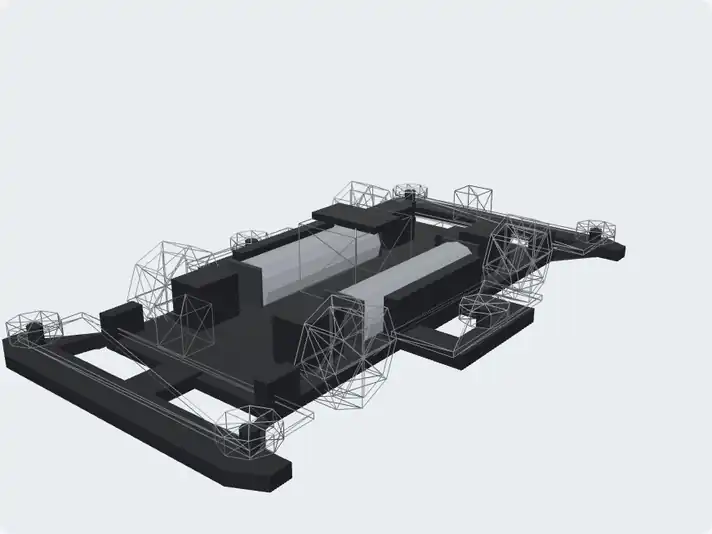
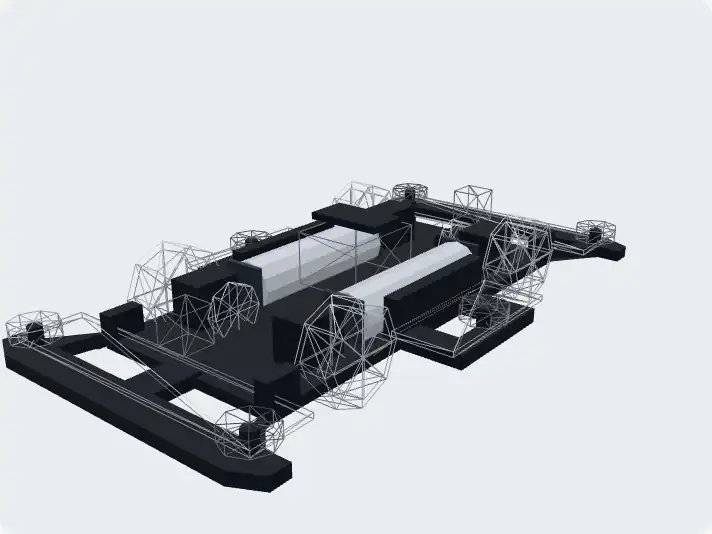
✨ Light the car from a studio, so metal and paint catch the light
The pane was lit by an ambient light and two lamps, with no environment
and no tone mapping. With nothing to reflect, an aluminium roller, a
motor can and a plated wheel were all the same dull grey, and every
material read as the same matte plastic.

The car now sits in a studio of glowing panels, shared/scene/studio.ts,
prefiltered into scene.environment once per mount at 128 px: a wide
overhead softbox, two low flank panels, a key box and a kicker. It was
chosen over three's RoomEnvironment after a side-by-side on a red, a
smoked clear and a white kit. The room rolled a livelier highlight
across a hood, but it washed the grey chassis to white and pushed red
toward pink. The studio keeps the box-art colours, and its panels were
then made large, because a faceted body only rolls a highlight across
several faces when the source is wide.

Tone mapping is Khronos PBR Neutral, which leaves base colours where
they were matched to box art. The ambient and fill lights are gone, one
key lamp shades what the panels light alike, and the environment runs
at 0.75 so a white shell keeps its shape. Metal is fully metallic, and
the shell is a clearcoated physical material, pulled forward from phase
4 because the comparison was judged with it. The finishes are one
SURFACE table.

The 3D chunk went 150.5 -> 151.4 KB gz, measured against HEAD. It is
still only prefetched, and no route loads Zod. Both posters were
recaptured at the home view.
[…]

diff --git a/app/components/build/Scene.client.vue b/app/components/build/Scene.client.vue
@@ -14,12 +14,13 @@
  * Nothing here runs during prerender.
  */
 import {
-  AmbientLight, BoxGeometry, CylinderGeometry, DirectionalLight, Group, Mesh, Object3D,
-  MeshStandardMaterial, PerspectiveCamera, Raycaster, Scene, SphereGeometry,
-  Vector2, Vector3, WebGLRenderer
+  BoxGeometry, CylinderGeometry, DirectionalLight, Group, Mesh, Object3D,
+  MeshPhysicalMaterial, MeshStandardMaterial, NeutralToneMapping, PerspectiveCamera,
+  Raycaster, Scene, SphereGeometry, Vector2, Vector3, WebGLRenderer
 } from 'three'
 import type { BufferGeometry } from 'three'
 import { OrbitControls } from 'three/addons/controls/OrbitControls.js'
+import { studioEnvironment } from '#shared/scene/studio'
 import { layoutFor, socketsFor } from '#shared/scene/sockets'
 import type { Fit, ProxyKind, SceneSocket } from '#shared/scene/sockets'
 import { DEFAULT_SILHOUETTE } from '#shared/scene/bodies'
@@ -335,6 +336,16 @@ const HIT: Record<Exclude<Solid, Hidden>, (shape: Shape) => BufferGeometry> = {
 const EMPTY_COLOUR = 0xb8bcc2
 /** What a material is besides its colour: the four finishes a proxy can have. */
 type Finish = 'shell' | 'rubber' | 'metal' | 'plastic'
+/**
+ * How each finish meets the studio's light. Metal is fully metallic: all its
+ * colour comes from what it reflects, which the studio is there to give it.
+ */
+const SURFACE: Record<Finish, { roughness: number; metalness: number }> = {
+  shell: { roughness: 0.5, metalness: 0 },
+  rubber: { roughness: 0.9, metalness: 0 },
+  metal: { roughness: 0.3, metalness: 1 },
+  plastic: { roughness: 0.5, metalness: 0 }
+}
 const FINISH: Record<ProxyKind, Finish> = {
   body: 'shell',
   motor: 'metal',
@@ -507,8 +518,11 @@ onMounted(() => {
    * a transparent material draws identically. The only other transparent
    * thing is a kit's clear chassis, and the shell's `renderOrder` draws it
    * after that from every angle, not only the ones where it is nearer.
+   *
+   * Clearcoated, so a painted shell reads as paint under a gloss layer: the
+   * studio's panels reflect in the coat while the colour stays in the base.
    */
-  const shell = new MeshStandardMaterial({ roughness: 0.55, metalness: 0.1, transparent: true })
+  const shell = new MeshPhysicalMaterial({ roughness: 0.4, metalness: 0, clearcoat: 1, clearcoatRoughness: 0.08, transparent: true })
   /** The shell's opacity seated, set by `populate`; `tickBody` fades from it as the shell lifts. */
   let seatedOpacity = 1
   function styleShell(highlight: Highlight, tint: number) {
@@ -527,7 +541,7 @@ onMounted(() => {
     const key = `chassis:${colour}:${clear}`
     let found = materials.get(key)
     if (!found) {
-      found = new MeshStandardMaterial({ color: colour, roughness: 0.75, transparent: clear, opacity: clear ? CLEAR_OPACITY : 1 })
+      found = new MeshStandardMaterial({ color: colour, roughness: 0.6, transparent: clear, opacity: clear ? CLEAR_OPACITY : 1 })
       materials.set(key, found)
     }
     return found
@@ -551,8 +565,7 @@ onMounted(() => {
     if (!found) {
       found = new MeshStandardMaterial({
         color: colour,
-        roughness: finish === 'rubber' ? 0.9 : 0.55,
-        metalness: finish === 'metal' ? 0.5 : 0.1,
+        ...SURFACE[finish],
         wireframe: empty,
         emissive: colour,
         emissiveIntensity: highlight === 'open' ? 0.6 : highlight === 'hover' ? 0.3 : 0
@@ -573,7 +586,19 @@ onMounted(() => {
   const renderer = new WebGLRenderer({ canvas: element, antialias: true, alpha: true })
   renderer.setPixelRatio(Math.min(window.devicePixelRatio, 2))
 
+  // Khronos PBR Neutral: the tone curve that leaves base colours where they
+  // are, and the kits' colours were matched to box art by eye (§5.6).
+  renderer.toneMapping = NeutralToneMapping
+
   const scene = new Scene()
+  // The light is what the materials reflect, not lamps: a studio of glowing
+  // panels, prefiltered once per mount (docs/PLAN.md §5.6, "Materials and
+  // light"). The map belongs to this renderer's context, so it is made here
+  // and disposed with it, not kept across remounts.
+  scene.environment = studioEnvironment(renderer)
+  // Below 1, so the key light below has room to shade a white shell: at full
+  // strength the panels light a body from every side and its facets read alike.
+  scene.environmentIntensity = 0.75
   const camera = new PerspectiveCamera(35, 1, 10, 2000)
   /**
    * The home view: a three-quarter angle from the front-right, at whatever
@@ -597,12 +622,11 @@ onMounted(() => {
   }
   camera.position.copy(HOME_DIRECTION).multiplyScalar(homeDistance(1))
 
-  scene.add(new AmbientLight(0xffffff, 0.9))
-  const key = new DirectionalLight(0xffffff, 1.6)
+  // One lamp on top of the studio, for form: it shades the faces the soft
+  // panels light alike, and it is the light the ground shadow will come from.
+  const key = new DirectionalLight(0xffffff, 1.2)
   key.position.set(120, 200, 160)
-  const fill = new DirectionalLight(0xffffff, 0.5)
-  fill.position.set(-100, 80, -120)
-  scene.add(key, fill)
+  scene.add(key)
 
   const car = new Group()
   // The chassis itself is not a slot, so it is drawn once under the sockets

diff --git a/shared/scene/studio.ts b/shared/scene/studio.ts
@@ -1,0 +1,71 @@
+/**
+ * The light the pane's materials reflect (docs/PLAN.md §5.6, "Materials and
+ * light"): a photo studio built from glowing panels, prefiltered by
+ * `PMREMGenerator` into the map `scene.environment` takes. Nothing in it is lit; a panel is a basic
+ * material whose colour runs above 1, the same trick three's RoomEnvironment
+ * uses, so the cube render that captures it is a handful of draws.
+ *
+ * Laid out for a car rather than a room: panels overhead and along both flanks,
+ * parallel to the car's length (+Z is the nose). They are large on purpose.
+ * A generated body is faceted, and a flat face is a flat mirror that catches a
+ * panel whole or misses it, so a small panel lights one facet and leaves its
+ * neighbours dark; a large one rolls a highlight across several (compared
+ * against three's RoomEnvironment, docs/PLAN.md §5.6, "Materials and light").
+ * Units are the PMREM cube camera's, a studio about 30 across around a car at
+ * the origin; the car's own scale does not matter to a reflection.
+ */
+import { BackSide, BoxGeometry, FrontSide, Mesh, MeshBasicMaterial, PMREMGenerator, Scene } from 'three'
+import type { Side, Texture, WebGLRenderer } from 'three'
+import type { Point3 } from './generators/mesh.ts'
+
+/** A panel: centre, size, and how bright it glows. */
+type Panel = readonly [x: number, y: number, z: number, w: number, h: number, d: number, glow: number]
+
+const PANELS: readonly Panel[] = [
+  // Overhead: one wide softbox the length of the car, the highlight along the roof.
+  [0, 14, 0, 14, 0.1, 28, 3],
+  // Flank panels, low and long, the highlight along each side of the shell.
+  [-13, 4, 0, 0.1, 5, 18, 1.8],
+  [13, 4, 0, 0.1, 5, 18, 1.8],
+  // A key box to the front-right, toward where the home view looks from.
+  [9, 7, 11, 9, 8, 0.1, 1.4],
+  // A dim kicker behind, so the tail edge separates from the backdrop.
+  [0, 6, -14, 12, 5, 0.1, 0.8]
+]
+
+/** The studio walls, and the floor a car's underside and tires pick up. */
+const WALL = 0.2
+const FLOOR = 0.45
+
+/**
+ * The studio prefiltered for `renderer`, ready for `scene.environment`. The
+ * scene and everything in it are disposed before this returns; the map is
+ * the caller's to dispose, and belongs to that renderer's context.
+ */
+export function studioEnvironment(renderer: WebGLRenderer): Texture {
+  const studio = new Scene()
+  const box = new BoxGeometry()
+  const materials: MeshBasicMaterial[] = []
+  function add(glow: number, [x, y, z]: Point3, [w, h, d]: Point3, side: Side = FrontSide) {
+    const material = new MeshBasicMaterial({ side })
+    material.color.setScalar(glow)
+    materials.push(material)
+    const mesh = new Mesh(box, material)
+    mesh.position.set(x, y, z)
+    mesh.scale.set(w, h, d)
+    studio.add(mesh)
+  }
+  add(WALL, [0, 12, 0], [32, 30, 32], BackSide)
+  add(FLOOR, [0, -2.9, 0], [30, 0.1, 30])
+  for (const [x, y, z, w, h, d, glow] of PANELS) add(glow, [x, y, z], [w, h, d])
+
+  const pmrem = new PMREMGenerator(renderer)
+  // 128 rather than three's 256: the panels are large and soft, so the finer
+  // map adds nothing a reflection shows, at four times the prefiltering work
+  // and memory on every mount.
+  const map = pmrem.fromScene(studio, 0.02, 0.1, 100, { size: 128 }).texture
+  pmrem.dispose()
+  for (const material of materials) material.dispose()
+  box.dispose()
+  return map
+}

diff --git a/docs/PLAN.md b/docs/PLAN.md
@@ -858,6 +858,83 @@ All seven phases landed the same day. **Every part the builder can fit now draws
   - A real thumb has still not tried the pane on a phone. The grid above measures the raycast, not a finger.
   - The fittings sheet has had one pass, not an owner pass.
 
+#### Materials and light (planned 2026-09-18)
+
+The owner asked for the pane to look more real: physically based materials and shader tricks, for a first look that makes a reader stop. The shapes are done (above). What still gives the pane away as a proxy view is its **light**. It is lit by an `AmbientLight` at 0.9 and two directional lights, and has no environment, no tone mapping and no shadow. Every material is a `MeshStandardMaterial` in one of four finishes (`FINISH` in `Scene.client.vue`). In that setup:
+
+- **Metal cannot look like metal.** A metallic surface shows almost nothing except its reflections, and there is nothing for it to reflect. At `metalness: 0.5` an aluminium roller, a motor can and a plated wheel are all the same dull grey.
+- **The car floats.** Nothing ties it to the frame's `#e9edf1` background, so it reads as a cut-out.
+- **Everything curved is faceted.** `mesh.ts` gives every generated solid flat normals. That was chosen for the low-poly look, and it holds up under diffuse light. Under reflections, a 16-segment roller or tire turns into a row of flat mirrors.
+
+The shapes stay as they are: stylised, with no decals and no textures. Realism here means how light meets the surface, so none of this moves the part closer to a reproduction (§5.1's IP position holds). The pane still draws only when something changes (§5.5), so every technique below either costs nothing on a still frame or is kept off phones.
+
+**Measured before starting (2026-09-18).** Each option was added to a minimal three 0.186 scene that matches the pane's imports, and bundled with esbuild (minified, gzip -9). The baseline is 136.1 KB gz, and the 3D chunk today is 150.5.
+
+| Addition | KB gz | Verdict |
+|---|---:|---|
+| `PMREMGenerator` + `RoomEnvironment` (image-based light), tone mapping | +1.8 | take (the environment is our own scene, see phase 1) |
+| `MeshPhysicalMaterial` (clearcoat, sheen, specular) | +0.7 | take |
+| Shadow map + `ShadowMaterial` ground | +0.0 | take (the renderer already ships the shadow code) |
+| Contact shadow (depth render + blur shaders) | +0.4 | fallback if the shadow map looks hard |
+| `toCreasedNormals` | +0.8 | not taken: `revolve` already knows its rings, so the smooth normals are ours to write |
+| `EffectComposer` + `RenderPass` + `OutputPass` | +2.5 | only for the desktop tier |
+| … + `GTAOPass` (ambient occlusion) | +9.5 | desktop tier, in its own lazy chunk |
+| … + `UnrealBloomPass` | +4.4 | not taken: nothing on a Mini 4WD glows |
+| … + `OutlinePass` | +5.3 | not taken: a fresnel rim does the highlight for nothing (phase 5) |
+| … + `SMAAPass` | +40.0 | not taken: its lookup textures are inlined. Use a multisampled render target, which costs nothing on WebGL2 |
+
+**Phases, highest value first.** After each phase: recapture the posters (§5.6, second cut), because a poster that does not match the scene shows as a jump when the canvas fades in. Re-measure the chunk. Check that no route loads Zod.
+
+1. **Light the car from a studio, not a room.** Build a small environment scene in code, `shared/scene/studio.ts`. It holds a few emissive rectangles as softboxes: a long one overhead, two strip lights at the sides, and a gradient floor. `PMREMGenerator` turns it into `scene.environment` once per mount. Three's `RoomEnvironment` is the same idea with fixed boxes. Our own layout is what draws the long clean highlight streaks along a glossy body that car photography is known for, and it is code, so no HDRI file ships. An HDRI would be a 1–2 MB download with a licence to track. Then:
+   - Set `toneMapping = NeutralToneMapping`, the Khronos PBR Neutral curve in three since r162. ACES and AgX would shift hue and saturation, and the kit colours were checked by eye against box art (§5.6). Neutral is the curve built to leave base colours alone.
+   - Remove the ambient light: the environment replaces it. Keep the key directional light, turned down, for form and for the shadow in phase 2.
+   - Retune `FINISH` against the new light. The palette is then checked on the bodies sheet against box art, the same way it was authored.
+2. **Put the car on the ground.** Turn on the key light's shadow map, 1024², PCF soft, with the car casting. Add a `ShadowMaterial` plane at the tires' contact height. It is transparent apart from the shadow, so it composites over the frame's background exactly as the canvas does today. **Orbiting does not redraw the shadow.** The light is fixed to the world and the car does not move while the camera does, so `shadowMap.autoUpdate = false`, and `needsUpdate` is set only by `populate`, a lift frame and a spin frame. A still or orbiting pane pays nothing for its shadow. Self-shadowing (the shell over the chassis) is tried with a tuned `normalBias`. If flat-faced acne cannot be tuned out, only the ground receives shadow.
+3. **Smooth what turns.** `revolve` writes one normal per vertex, around the axis: smooth across the segments, hard between profile steps, so a roller's flange edge stays crisp. Rollers, wheels, tires, the motor can, axles and gear discs are all revolves, and they are what reflect. Lofts and prisms (bodies, plates, the chassis) keep flat faces and their low-poly look. `generators.test.ts` gains a check that each revolved normal points away from the axis.
+4. **Materials that say what the part is made of.** The part record's `finish` grows from `metal` to a small enum, derived from names in `scripts/catalog/` the way `finishFor` is today. Only non-default values are written, so the payload grows by a few hundred bytes. There are about 42 carbon parts and 13 plated ones. Each finish maps to one preset:
+
+   | Finish | Material | Where |
+   |---|---|---|
+   | painted shell | physical, clearcoat 1, clearcoat roughness ~0.1, base roughness ~0.45 | every opaque body |
+   | clear shell | the same, with `opacity` as today and specular turned up | clear and smoked bodies, clear chassis |
+   | plated | metal 1, roughness ~0.08 | plated wheels, gold terminals |
+   | aluminium | metal 1, roughness ~0.3, brushed (phase 5) | rollers, weights, aluminium wheels |
+   | steel | metal 1, roughness ~0.4 | axles, pins, motor can |
+   | carbon | physical, clearcoat 1, twill weave (phase 5) | carbon plates |
+   | FRP / moulding | dielectric, roughness ~0.6 | plates, chassis, stock wheels |
+   | rubber | dielectric, roughness ~0.9, a little sheen | tires, brake sponges |
+
+   Clear shells stay on opacity and are **not** given `transmission`. Transmission renders the opaque scene again into a texture every frame, and the shell's opacity is animated through a lift (§5.6, second cut), so every lift frame would pay twice.
+5. **Detail from the shader, not from textures.** Generated geometry has no UVs, so a texture has nothing to be mapped by. One `onBeforeCompile` hook reads the object-space position instead, with a `customProgramCacheKey` per effect:
+   - **carbon:** twill checker in the plate's own plane, in the normal and the roughness;
+   - **aluminium:** fine streaks around the rotation axis;
+   - **tires:** a faint tread band.
+
+   The same hook replaces the emissive highlight with a **fresnel rim** in the highlight colour. Hover and an open picker then light the part's outline, not a flat wash over the whole part, and the part keeps its own colour. Each effect is a separate shader program, so three effects at most.
+6. **Compile before the first frame.** Physical materials, shadows and the environment all make bigger shaders. On a phone the first frame can stall while they compile. Call `renderer.compileAsync(scene, camera)` before the first `render`, so `KHR_parallel_shader_compile` spreads the work. The poster covers the wait. **The measure is `scene_ready.ms`, already in PostHog (§6 M0):** compare its median and p90 by device before and after each phase, and if p90 grows by more than about 300 ms, cut back.
+7. **Desktop only: ambient occlusion.** Only on a wide frame with a real GPU: pointer `fine`, a 16:9 frame, and a first frame under a threshold. There, an `EffectComposer` with a 4-sample render target, `GTAOPass` and `OutputPass` darkens the creases: roller posts, arches, the gap under the shell. It is a dynamic import, so phones never download its 12 KB. With the composer, the canvas's own `antialias` stops applying and the multisampled target takes over, and tone mapping moves to `OutputPass`. **Known trap:** the canvas is transparent (`alpha: true`), and the composer's targets must keep alpha through every pass, or the frame's background turns black. Test that first.
+
+**Not in this plan:** HDRI files; a reflective floor (`Reflector` renders the scene twice); bloom; depth of field; decals or any texture of Tamiya artwork; changing the camera or adding an intro dolly. The last is M3's camera presets.
+
+**Owner decisions (2026-09-18):**
+
+- **Smooth what turns** (phase 3 as written). Revolves get smooth normals around their axis; lofts and prisms stay faceted.
+- **There is a desktop tier** (phase 7 as written). Two looks, so both posters are checked against their tier's first frame.
+- **Studio or room** (phase 1): the owner asked to see the two side by side before choosing. **Compared 2026-09-18** on three MA kits, an opaque red (Spark Rouge 18642), a smoked clear (Tri Gale Black Special 95413) and a white (Blast Arrow 18635), at the home view. Each environment used the same retuned finishes: metal fully metallic at roughness 0.3, and the shell a clearcoat. The switch was a temporary `?env=room|studio` query on the scene.
+  - **`RoomEnvironment`** is the liveliest on paint. A large soft highlight rolls across several facets of a red hood, and the smoked shell reads as glass. It is also about a stop too bright for the `#e9edf1` frame: the grey chassis and the rollers wash out to near-white, a red goes toward pink, and a white body loses its shape. Its boxes reflect in a clear shell as bright square patches.
+  - **The soft-box studio** (`shared/scene/studio.ts`: walls 0.2, floor 0.45, an overhead strip, two flank strips, a front-right key, a kicker) keeps colours at their box-art values and the chassis grey. Its highlight is a single sharp facet, so it looks more graphic and less glossy. **The long streaks it was designed for do not appear**, and they cannot while the body is faceted: a flat face is a flat mirror, so it either catches a panel whole or misses it. A streak needs normals that vary along the face, which only phase 3's revolves will have.
+  - The finding that matters for either choice: **with faceted bodies, the size of the light sources decides the look, more than where they are.** Large sources spread a highlight over neighbouring facets, which is the room's strength; small ones light one facet at a time.
+
+**Phase 1 landed (2026-09-18): the car is lit by the studio.** `shared/scene/studio.ts` is the environment. After the comparison its panels were made about twice the size and half the brightness: overhead 14 × 28 at 3, flank panels 5 high at 1.8, the key 9 × 8 at 1.4, walls 0.2, floor 0.45. The ambient light and the fill light are gone. What the tuning changed:
+
+- **A white shell needed the environment below full strength.** With panels that large the environment lights a body from every side, and at full strength a white shell's facets all read the same bright white. `scene.environmentIntensity` is 0.75 and the key light went 0.8 → 1.2, which leaves room for the key to shade the faces.
+- **The clearcoat shell was pulled forward from phase 4**, because the comparison was judged with it: the shell is a `MeshPhysicalMaterial` (roughness 0.4, clearcoat 1, clearcoat roughness 0.08). Phase 4 still owns the finish enum and the rest of the presets.
+- Metal is fully metallic at roughness 0.3, moulding is dielectric at 0.5 and the chassis at 0.6, so the proxy materials already sit where phase 4's table puts them.
+
+**Bytes.** The 3D chunk went **150.5 → 151.4 KB gz**, measured against `HEAD` built in a scratch worktree: the PMREM generator, the physical material and the tone curve, with no `RoomEnvironment`. It is still prefetched, not modulepreloaded, the modulepreload list on `/` is unchanged (31 entries), and no route loads Zod. Both posters were recaptured at the home view, 16:9 at a 1100 px window and 4:3 at a 420 px emulated phone (the 356 px pane the 712 × 534 file was cut from), with the pane's buttons hidden: **36 KB and 16 KB**, up from 32 and 13, because a lit chassis has more gradients to encode. **Not measured:** `scene_ready` on phones, which waits for phase 6 (`compileAsync`) so both land in one comparison.
+
+**Done when:** from the home view, a stock kit's aluminium rollers, plated or moulded wheels and glossy shell are told apart by how they catch the light, not only by their colour; the car sits on a soft shadow; the 3D chunk is at most about 154 KB gz without the desktop tier; `scene_ready` p90 on phones has not moved by more than the threshold in phase 6; and the posters match the first frame.
+
 ---
 
 ## 6. Roadmap
